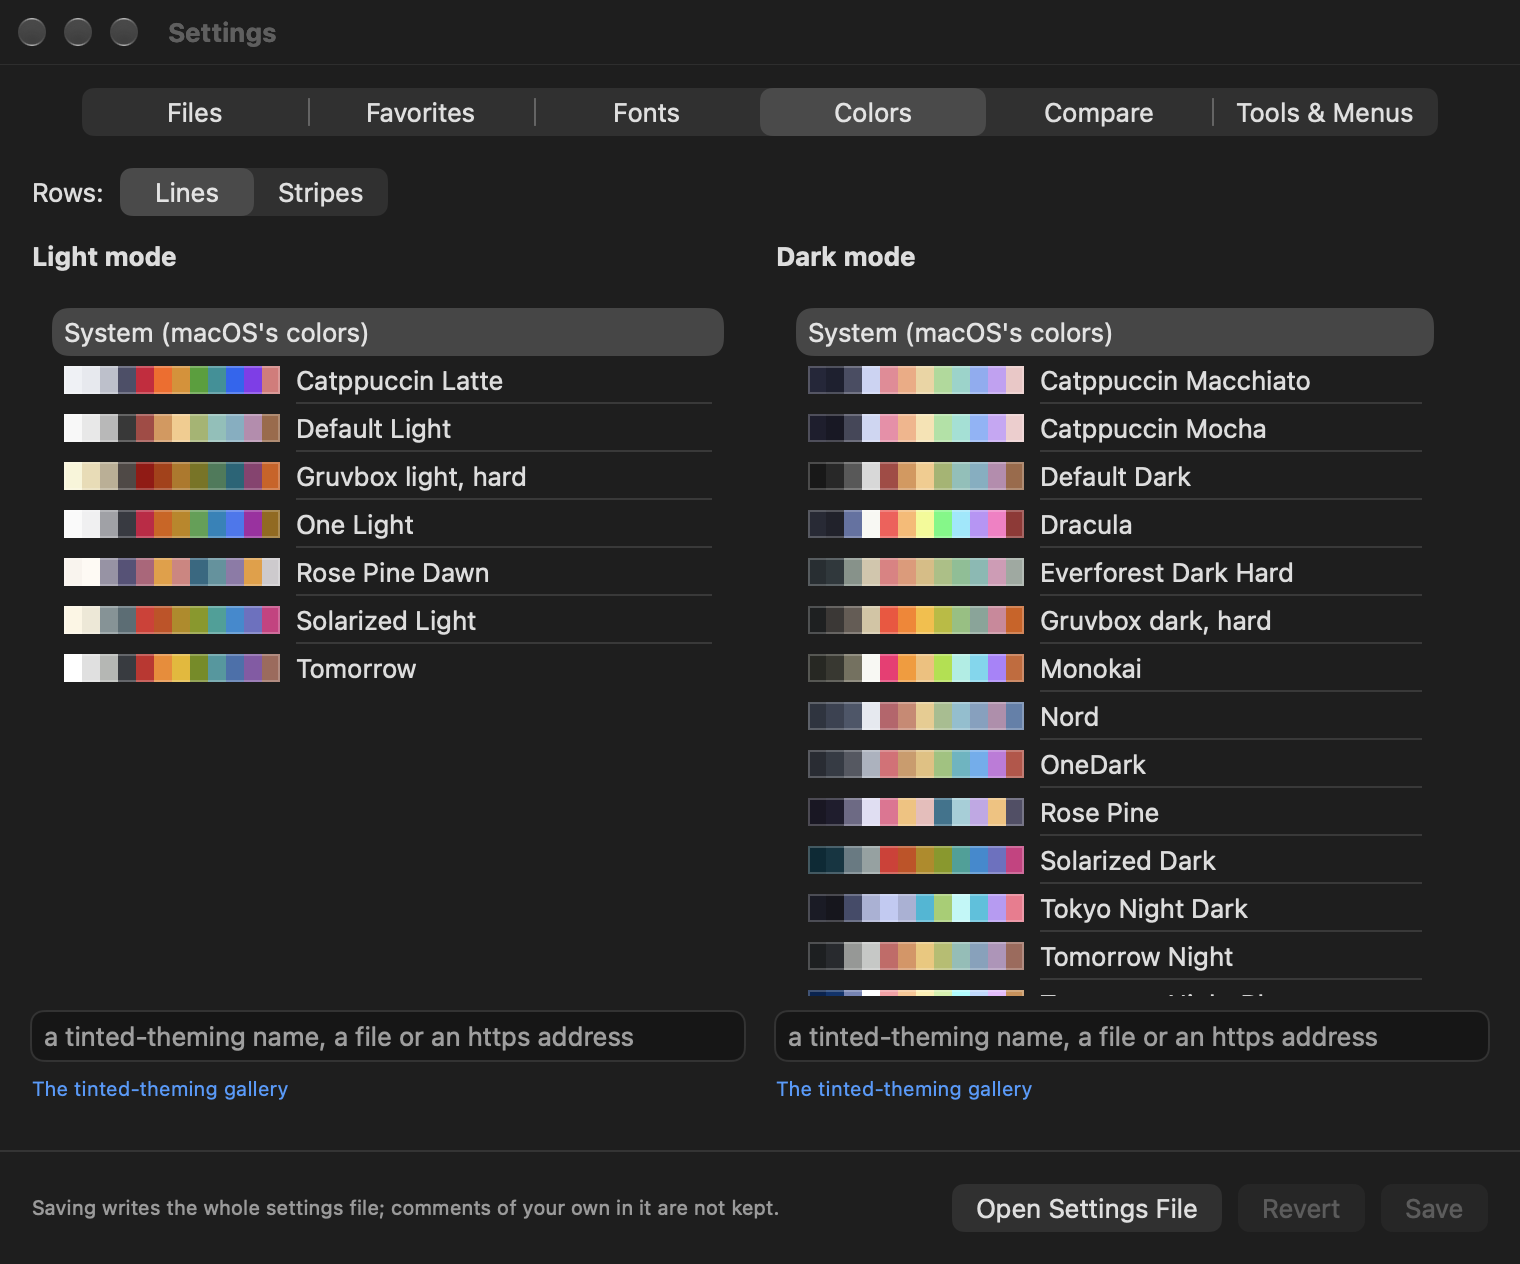
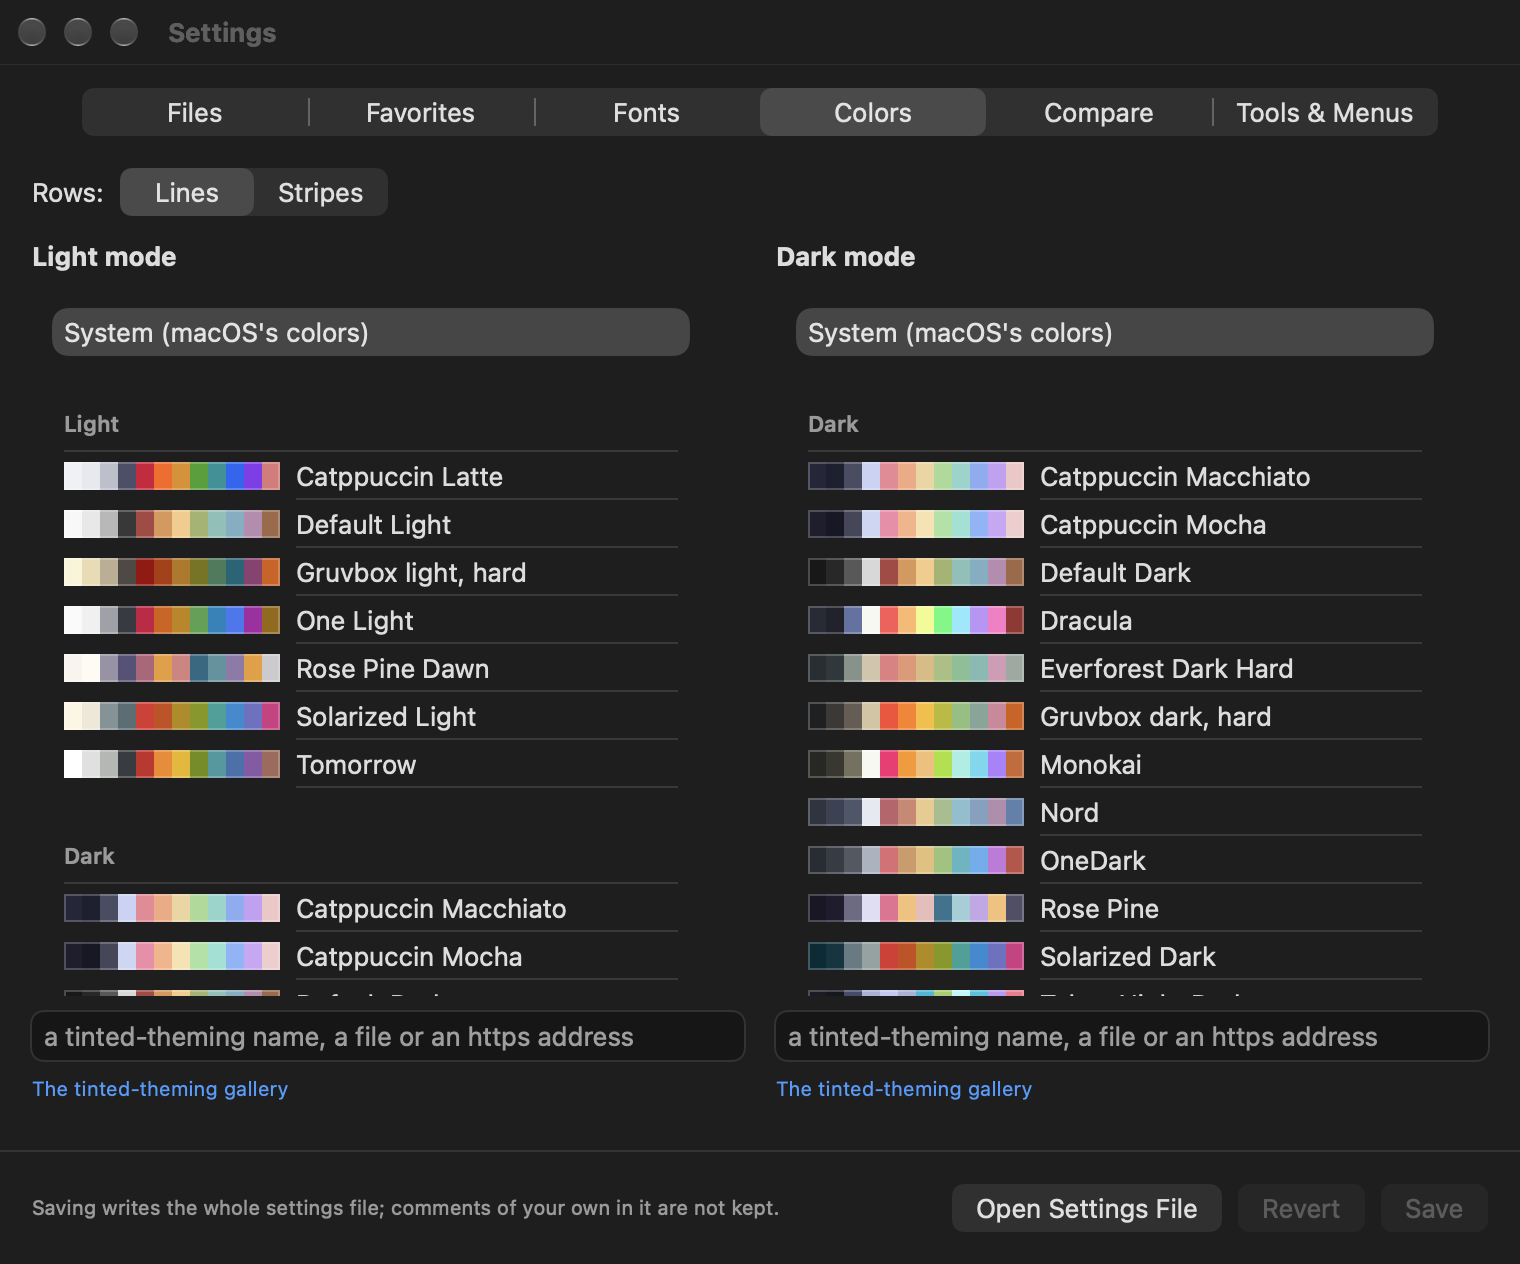
Colors: every scheme in both modes' lists
Each mode's list shows its own kind of scheme first, then the other kind,
so a light scheme in dark mode (or a dark one in light mode) is one click
away instead of having to be typed under Other.

Fixes #94

diff --git a/Sources/BlitterApp/SettingsColors.swift b/Sources/BlitterApp/SettingsColors.swift
@@ -28,7 +28,8 @@ struct ColorSettings: View {
     }
 }
 
-/// One mode's scheme: System, then the built-in schemes of that mode (#78).
+/// One mode's scheme: System, then the built-in schemes of that mode (#78), then those of the
+/// other mode (#94).
 struct SchemeChooser: View {
     let title: String
     @Binding var name: String
@@ -43,14 +44,12 @@ struct SchemeChooser: View {
             ScrollViewReader { scroller in
                 List(selection: Binding<String?>(get: { name }, set: { $0.map { name = $0 } })) {
                     Text("System (macOS's colors)").tag("system").id("system")
-                    ForEach(BuiltInScheme.choices(dark: isDark, chosen: name)) { scheme in
-                        HStack {
-                            Swatches(scheme: theme.scheme(named: scheme.id) ?? scheme.scheme)
-                            Text(scheme.title)
-                        }
-                        .help(scheme.author)
-                        .tag(scheme.id)
-                        .id(scheme.id)
+                    let choices = BuiltInScheme.choices(dark: isDark)
+                    Section(isDark ? "Dark" : "Light") {
+                        ForEach(choices.own, content: row)
+                    }
+                    Section(isDark ? "Light" : "Dark") {
+                        ForEach(choices.other, content: row)
                     }
                 }
                 .frame(minHeight: 200)
@@ -71,6 +70,16 @@ struct SchemeChooser: View {
         }
         .onAppear { other = isBuiltIn ? "" : name }
         .onChange(of: name) { other = isBuiltIn ? "" : name }
+    }
+
+    private func row(_ scheme: BuiltInScheme) -> some View {
+        HStack {
+            Swatches(scheme: theme.scheme(named: scheme.id) ?? scheme.scheme)
+            Text(scheme.title)
+        }
+        .help(scheme.author)
+        .tag(scheme.id)
+        .id(scheme.id)
     }
 
     private var isBuiltIn: Bool {

diff --git a/Tests/BlitterModelTests/BuiltInSchemesTests.swift b/Tests/BlitterModelTests/BuiltInSchemesTests.swift
@@ -22,16 +22,15 @@ struct BuiltInSchemesTests {
         #expect(darkOnes)
     }
 
-    /// #78: each mode's list has only that mode's schemes, and the chosen one wherever it is from.
-    @Test func eachModeListsItsOwnSchemesAndTheChosenOne() {
-        let lights = BuiltInScheme.choices(dark: false, chosen: "system")
-        let darks = BuiltInScheme.choices(dark: true, chosen: "nord")
-        #expect(!lights.isEmpty && lights.allSatisfy { !$0.isDark })
-        #expect(!darks.isEmpty && darks.allSatisfy(\.isDark))
-        #expect(lights.count + darks.count == BuiltInScheme.all.count)
-        // A light scheme the file sets for dark mode is in the dark list too.
-        let mixed = BuiltInScheme.choices(dark: true, chosen: "rose-pine-dawn")
-        #expect(mixed.count == darks.count + 1 && mixed.contains { $0.id == "rose-pine-dawn" })
+    /// #78, #94: each mode's list has every scheme, its own kind first, then the other kind.
+    @Test func eachModeListsItsOwnSchemesFirstThenTheOthers() {
+        let light = BuiltInScheme.choices(dark: false)
+        let dark = BuiltInScheme.choices(dark: true)
+        #expect(!light.own.isEmpty && light.own.allSatisfy { !$0.isDark } && light.other.allSatisfy(\.isDark))
+        #expect(!dark.own.isEmpty && dark.own.allSatisfy(\.isDark) && dark.other.allSatisfy { !$0.isDark })
+        #expect(light.own.map(\.id) == dark.other.map(\.id) && light.other.map(\.id) == dark.own.map(\.id))
+        #expect(light.own.count + light.other.count == BuiltInScheme.all.count)
+        #expect(dark.other.contains { $0.id == "solarized-light" }) // a light scheme for dark mode
     }
 
     /// A built-in name in the settings file is resolved at once: no download, no problem.

diff --git a/Sources/BlitterModel/BuiltInSchemes.swift b/Sources/BlitterModel/BuiltInSchemes.swift
@@ -12,10 +12,10 @@ public struct BuiltInScheme: Sendable, Identifiable {
 }
 
 public extension BuiltInScheme {
-    /// What a mode's list offers (#78): that mode's schemes only, and the chosen one even if it is
-    /// the other mode's (set so in the file), so the choice is never out of sight.
-    static func choices(dark isDark: Bool, chosen: String) -> [BuiltInScheme] {
-        all.filter { $0.isDark == isDark || $0.id == chosen }
+    /// What a mode's list offers (#78, #94): every scheme, that mode's own kind first, then the
+    /// other kind (a light scheme for dark mode is a choice too).
+    static func choices(dark isDark: Bool) -> (own: [BuiltInScheme], other: [BuiltInScheme]) {
+        (all.filter { $0.isDark == isDark }, all.filter { $0.isDark != isDark })
     }
 
     // swiftlint:disable force_unwrapping

diff --git a/docs/manual/settings.md b/docs/manual/settings.md
@@ -83,9 +83,9 @@ goes back to the colors in the settings file. A scheme typed under **Other** tha
 downloaded yet shows once it is saved.
 
 - **Built in:** 22 schemes, among them Tomorrow Night Blue, Nord, Dracula, Gruvbox, Catppuccin,
-  Rosé Pine, One Dark and Solarized. The light mode's list shows the light ones, the dark mode's
-  the dark ones. A scheme the file sets for the other mode (say, a light one for dark mode) is
-  still shown in that list, so you can see what is chosen.
+  Rosé Pine, One Dark and Solarized. Each list shows its own kind first (the light mode's the
+  light schemes, the dark mode's the dark ones), then the other kind: a light scheme for dark
+  mode, or a dark one for light mode, is one click away.
 - **Other:** type the name of any scheme of the
   [tinted-theming collection](https://tinted-theming.github.io/tinted-gallery/) (e.g.
   `gruvbox-material-dark-hard`; it is downloaded once and kept in the `schemes` folder next to the
